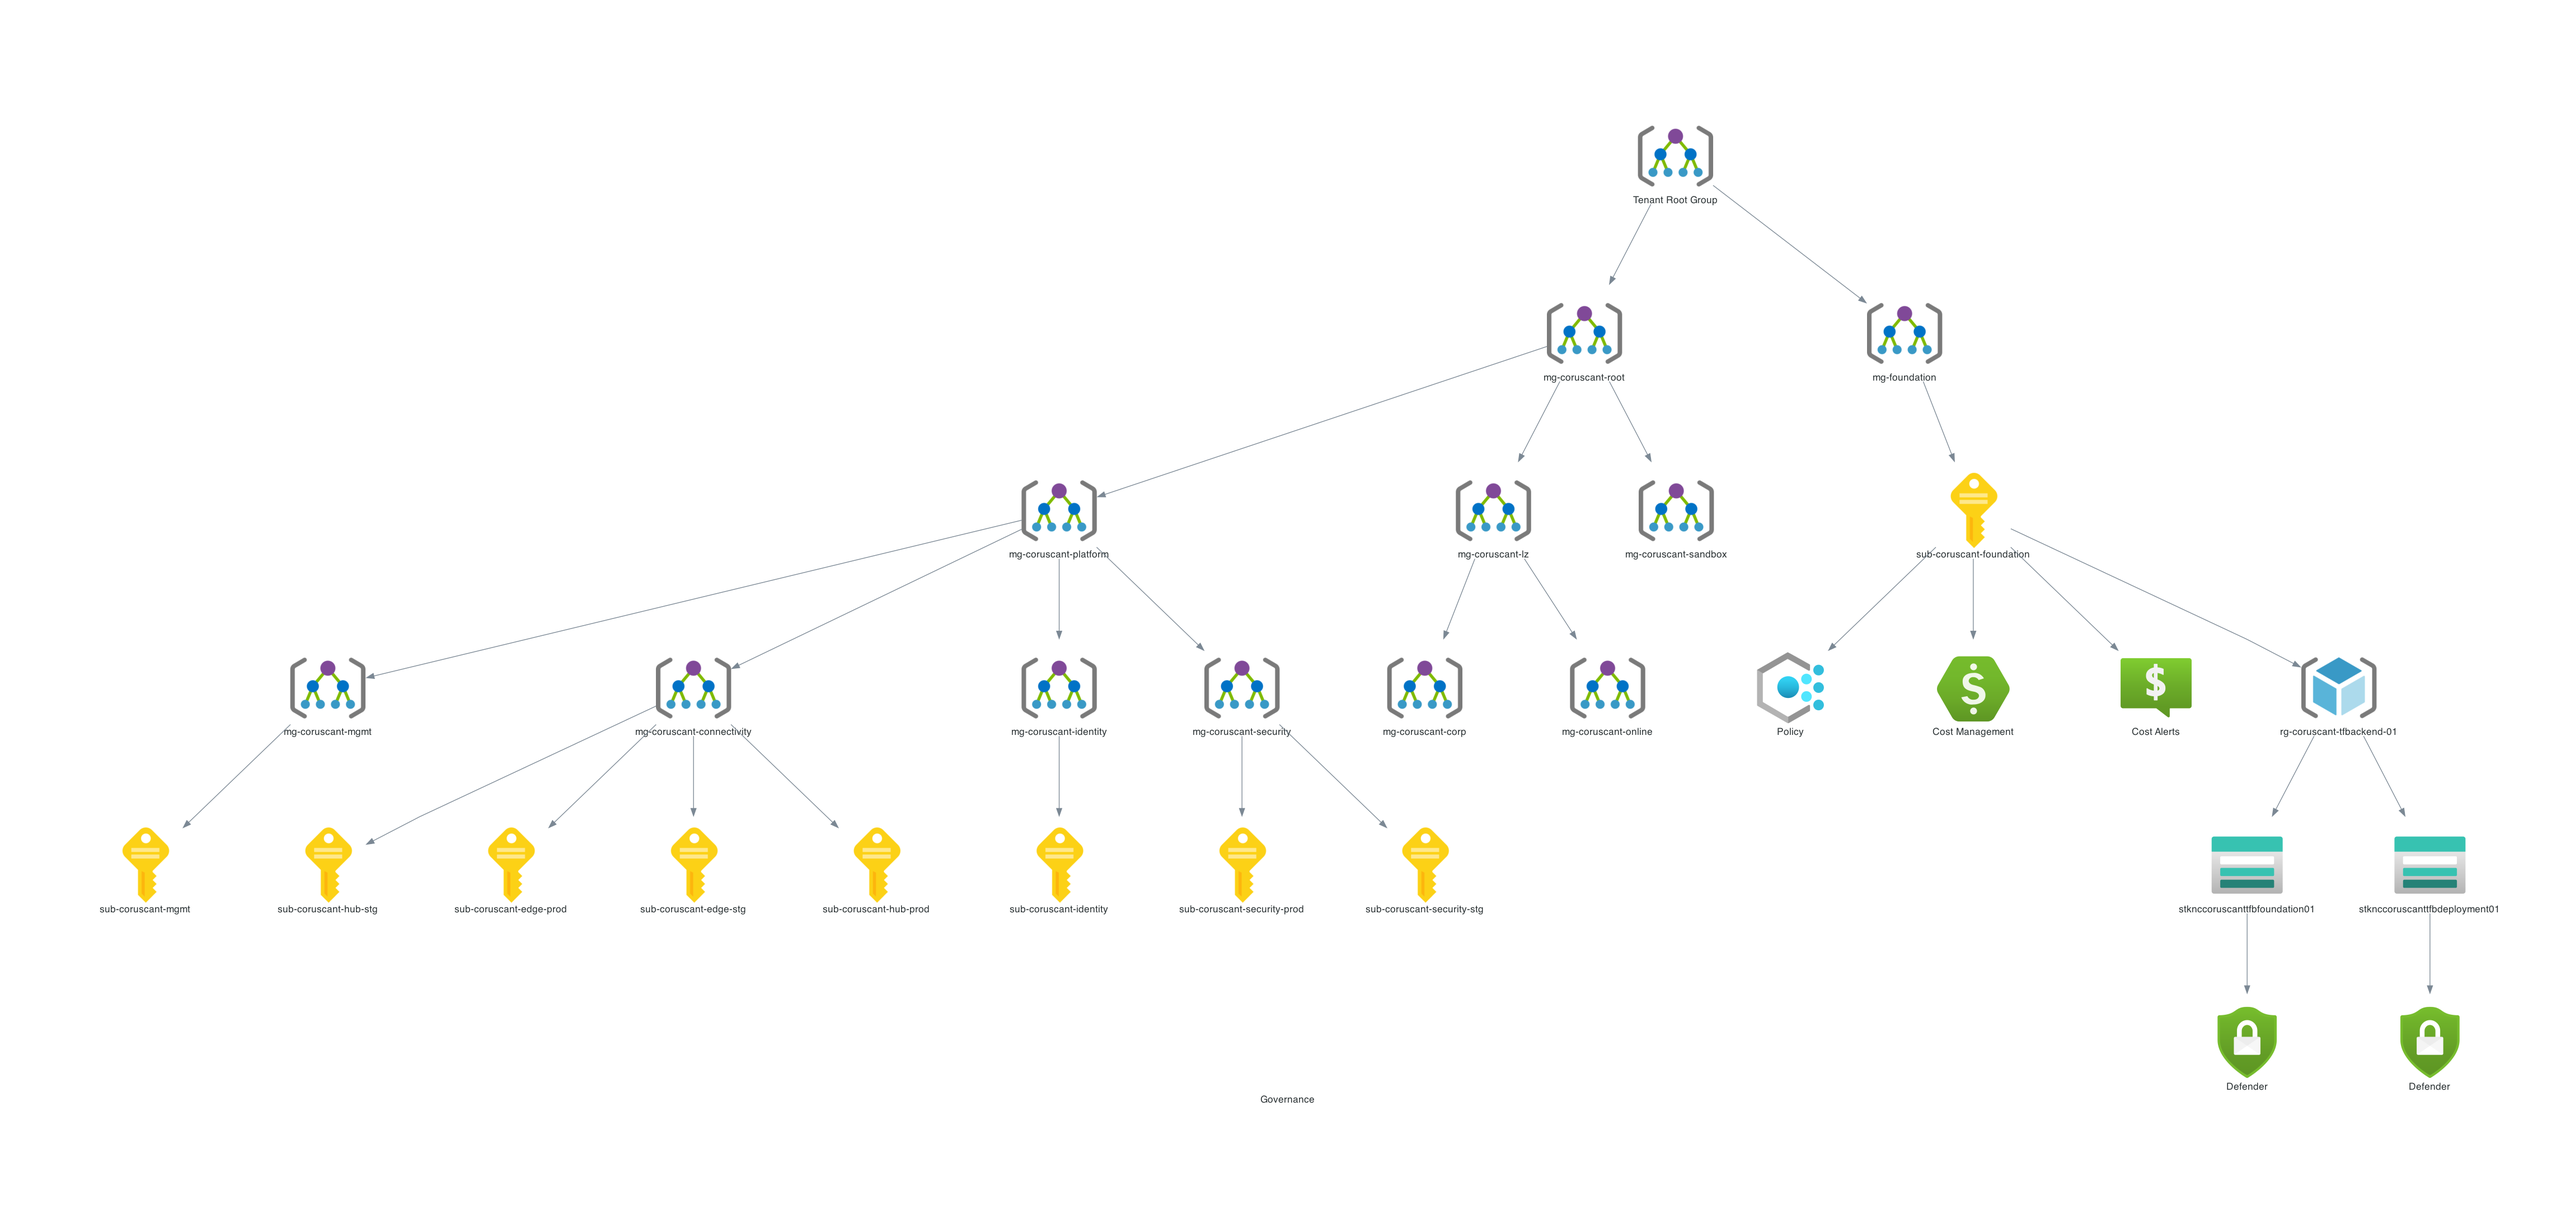
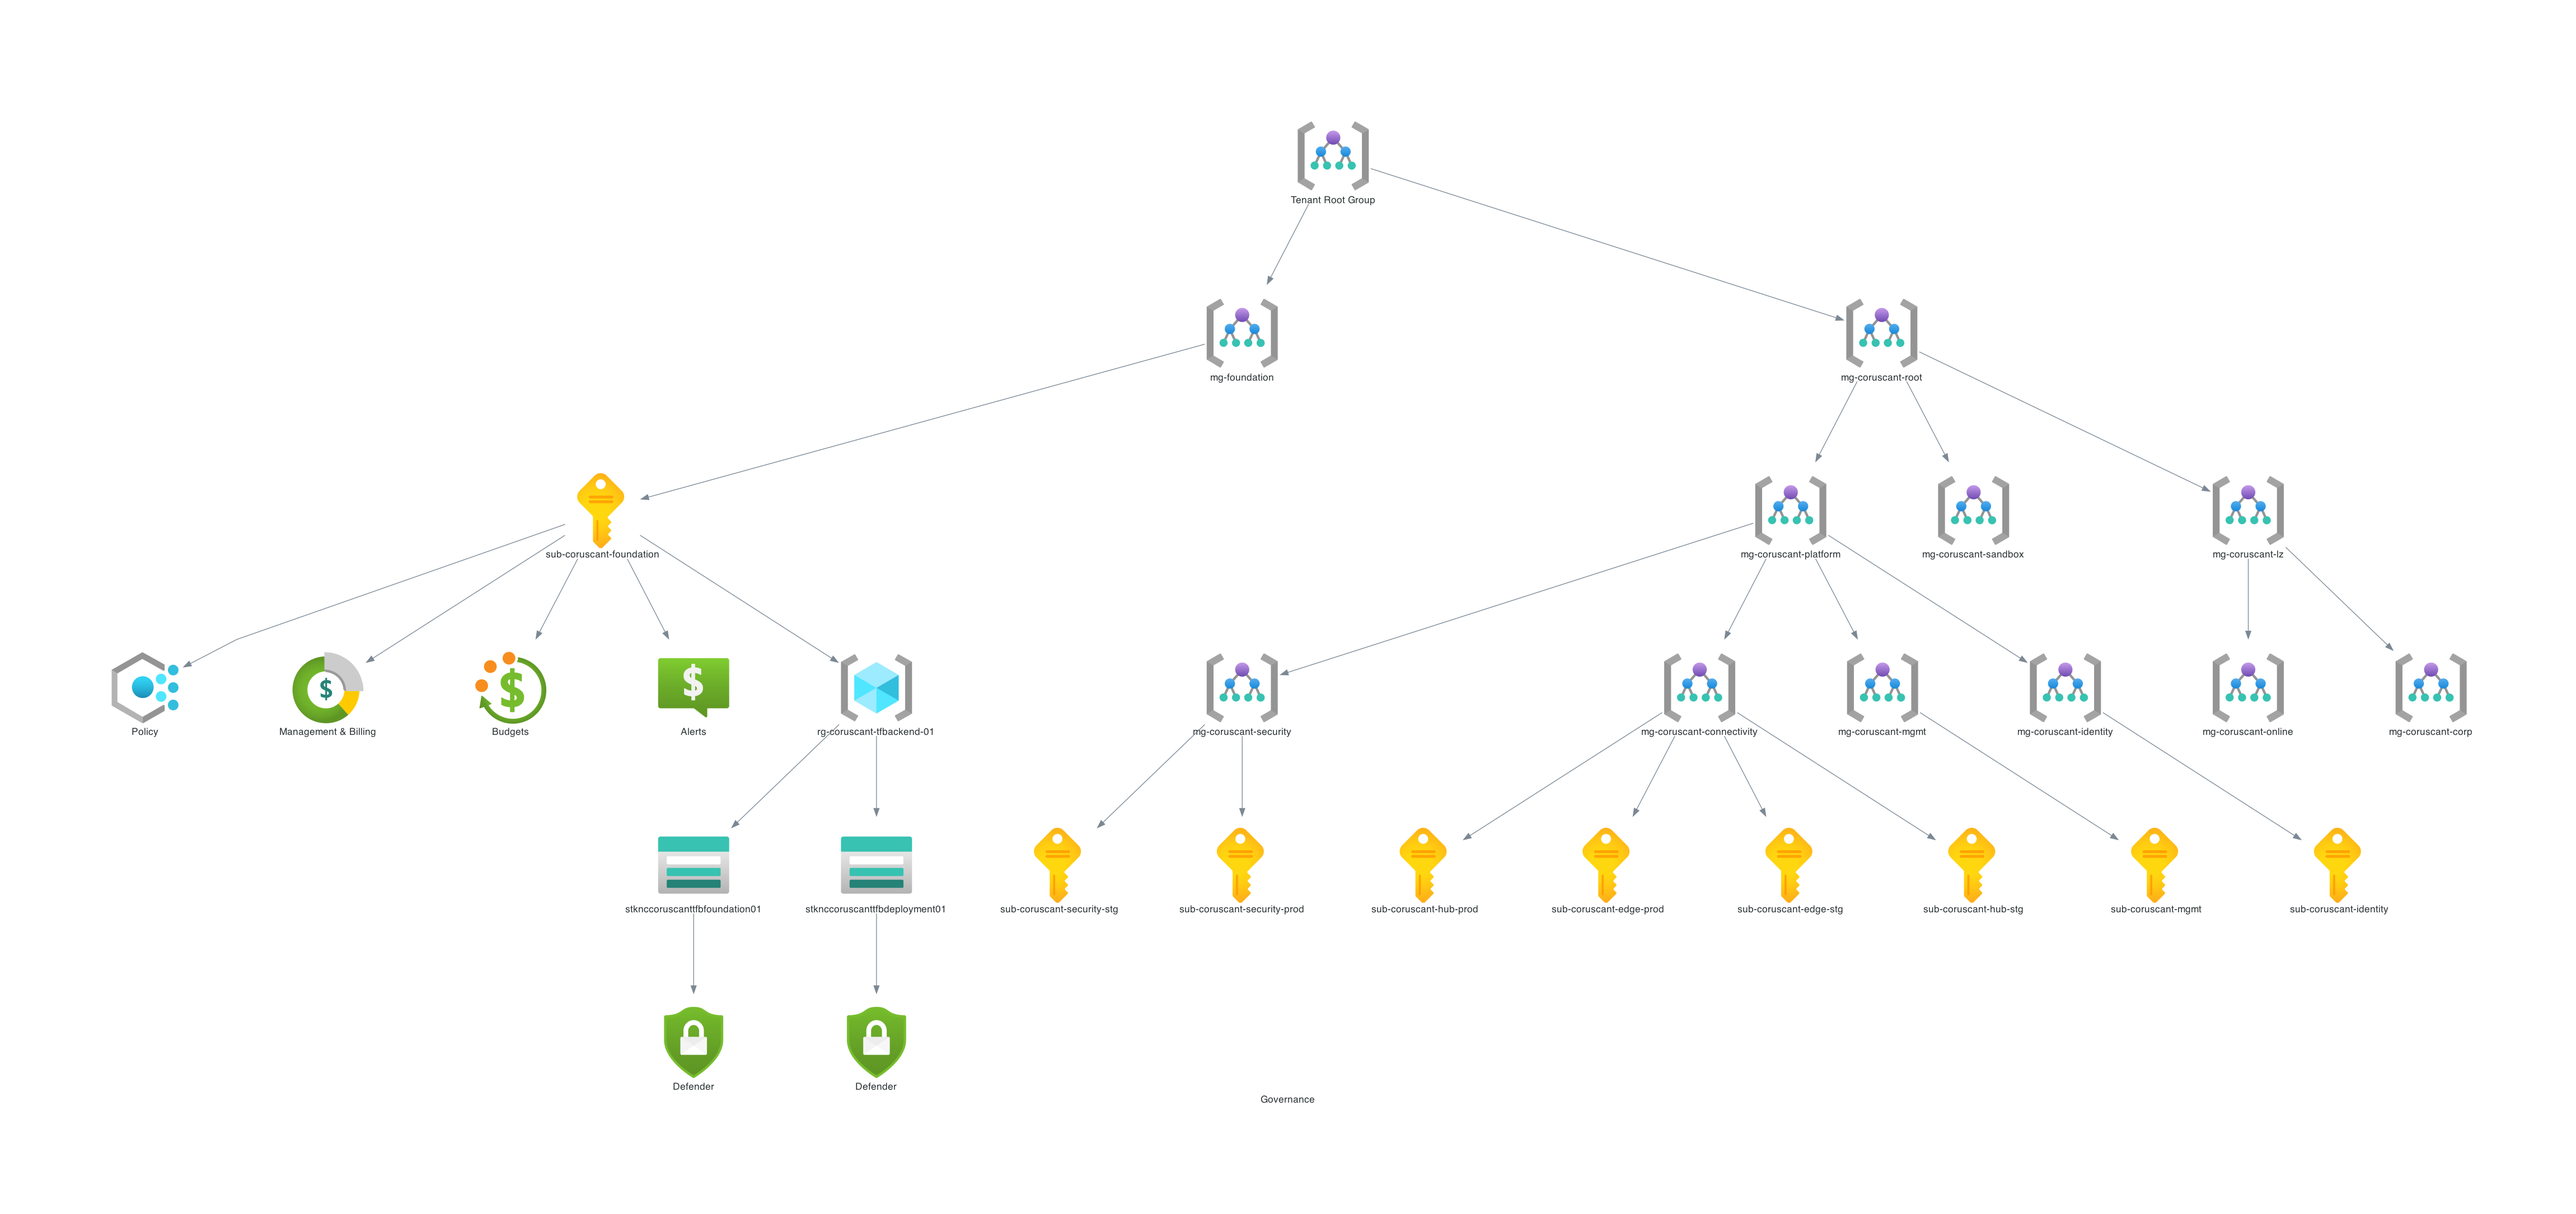
Upgrade go-diagrams and regen images

diff --git a/docs/code/cmd/governance.go b/docs/code/cmd/governance.go
@@ -81,8 +81,9 @@ func genSubFoundation(d *diagram.Diagram, mgFoundation *diagram.Node) {
 	d.Connect(mgFoundation, subFound)
 
 	d.Connect(subFound, azure.General.Policy(diagram.NodeLabel("Policy")))
-	d.Connect(subFound, azure.General.CostManagement(diagram.NodeLabel("Cost Management")))
-	d.Connect(subFound, azure.General.CostAlerts(diagram.NodeLabel("Cost Alerts")))
+	d.Connect(subFound, azure.General.CostManagementBilling(diagram.NodeLabel("Management & Billing")))
+	d.Connect(subFound, azure.General.CostBudgets(diagram.NodeLabel("Budgets")))
+	d.Connect(subFound, azure.General.CostAlerts(diagram.NodeLabel("Alerts")))
 
 	// Create resource group with connections to subscription
 	rgNode := azure.General.Resourcegroups(diagram.NodeLabel("rg-coruscant-tfbackend-01"))

diff --git a/docs/code/cmd/hub.go b/docs/code/cmd/hub.go
@@ -19,8 +19,9 @@ func genHub() error {
 	sub := azure.General.Subscriptions(diagram.NodeLabel("sub-coruscant-hub-prod"))
 
 	d.Connect(sub, azure.General.Policy(diagram.NodeLabel("Policy")))
-	d.Connect(sub, azure.General.CostManagement(diagram.NodeLabel("Cost Management")))
-	d.Connect(sub, azure.General.CostAlerts(diagram.NodeLabel("Cost Alerts")))
+	d.Connect(sub, azure.General.CostManagementBilling(diagram.NodeLabel("Management & Billing")))
+	d.Connect(sub, azure.General.CostBudgets(diagram.NodeLabel("Budgets")))
+	d.Connect(sub, azure.General.CostAlerts(diagram.NodeLabel("Alerts")))
 
 	rgEPA := azure.General.Resourcegroups(diagram.NodeLabel("rg-coruscant-hub-epa-prod-01")) // Entra Private Access
 	d.Connect(sub, rgEPA)
